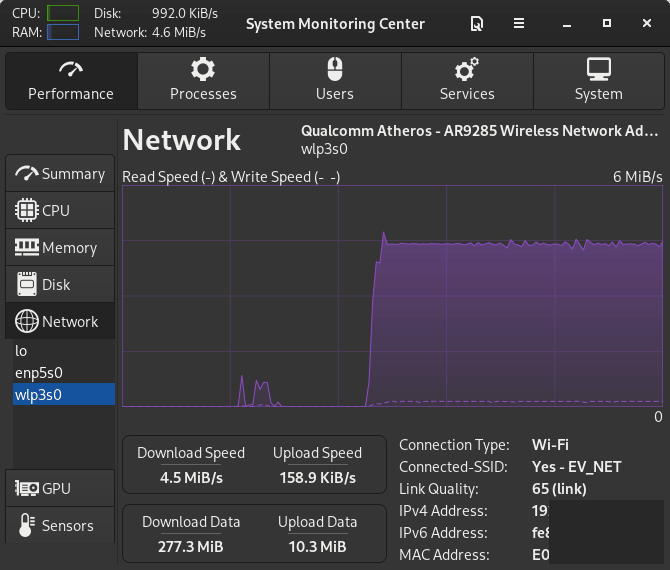
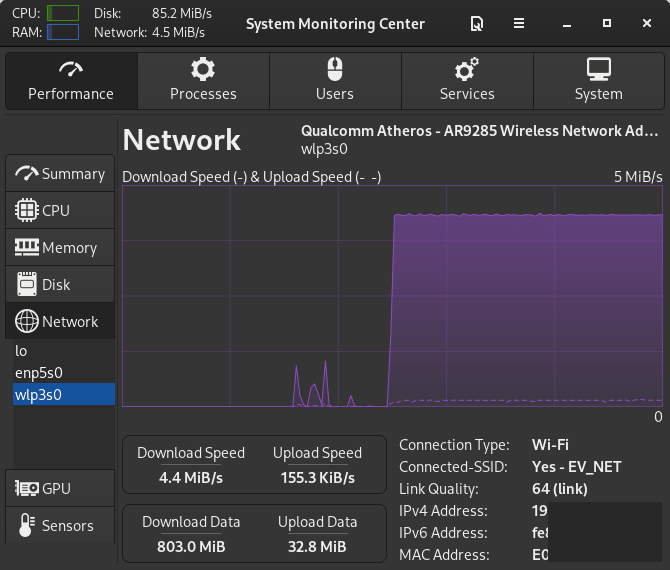
Minor changes

diff --git a/src/SettingsWindow.py b/src/SettingsWindow.py
@@ -18,7 +18,7 @@ class SettingsWindow:
     def __init__(self):
 
         # Define data lists in order to add them into comboboxes.
-        self.language_dict = {"system":_tr("System"), "cs.UTF-8":"čeština", "de.UTF-8":"Deutsch", "en_US.UTF-8":"English (US)", "fa.UTF-8":"فارسی", "hu.UTF-8":"Magyar", "pl.UTF-8":"polski", "pt_BR.UTF-8":"português do Brasil", "pt_PT.UTF-8":"português europeu", "ru_RU.UTF-8":"Русский", "tr.UTF-8":"Türkçe", "zh_CN.UTF-8":"汉语"}
+        self.language_dict = {"system":_tr("System"), "cs.UTF-8":"čeština", "de.UTF-8":"Deutsch", "en_US.UTF-8":"English (US)", "fa.UTF-8":"فارسی", "hu.UTF-8":"Magyar", "pl.UTF-8":"polski", "pt_BR.UTF-8":"português do Brasil", "pt_PT.UTF-8":"português europeu", "ru_RU.UTF-8":"Русский", "tr.UTF-8":"Türkçe"}
         self.gui_theme_dict = {"system":_tr("System"), "light":_tr("Light"), "dark":_tr("Dark")}
         self.update_interval_list = [0.5, 0.75, 1.0, 1.25, 1.5, 2.0, 3.0, 5.0, 10.0]
         self.chart_data_history_list = [30, 60, 90, 120, 150, 180, 300, 600, 1200]

diff --git a/src/Network.py b/src/Network.py
@@ -110,7 +110,7 @@ class Network:
         # Label (drawingarea upper-left)
         label = Gtk.Label()
         label.set_halign(Gtk.Align.START)
-        label.set_label(_tr("Read Speed") + " (-) & " + _tr("Write Speed") + " (-  -)")
+        label.set_label(_tr("Download Speed") + " (-) & " + _tr("Upload Speed") + " (-  -)")
         grid.attach(label, 0, 0, 1, 1)
 
         # Label (drawingarea upper-right)
